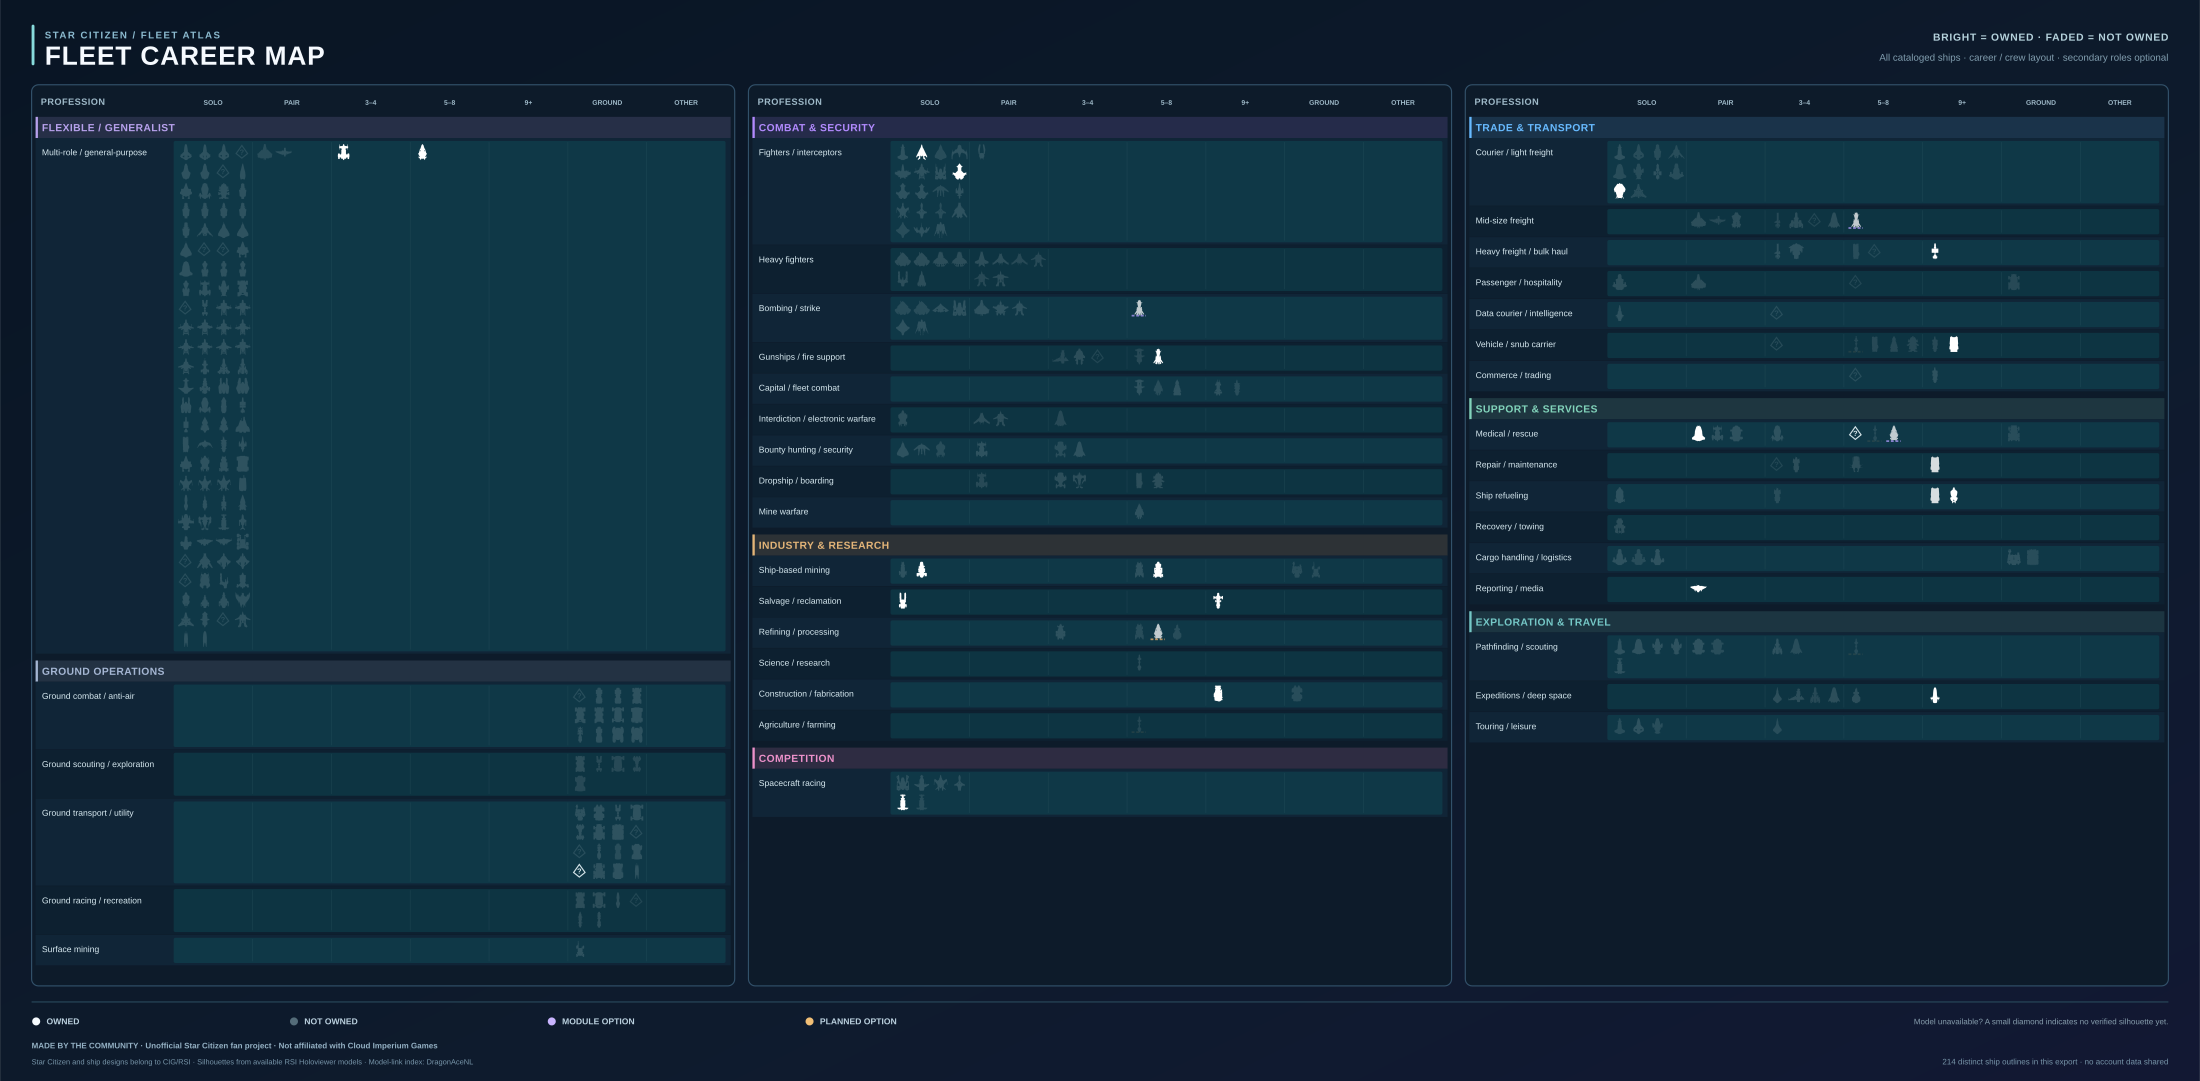
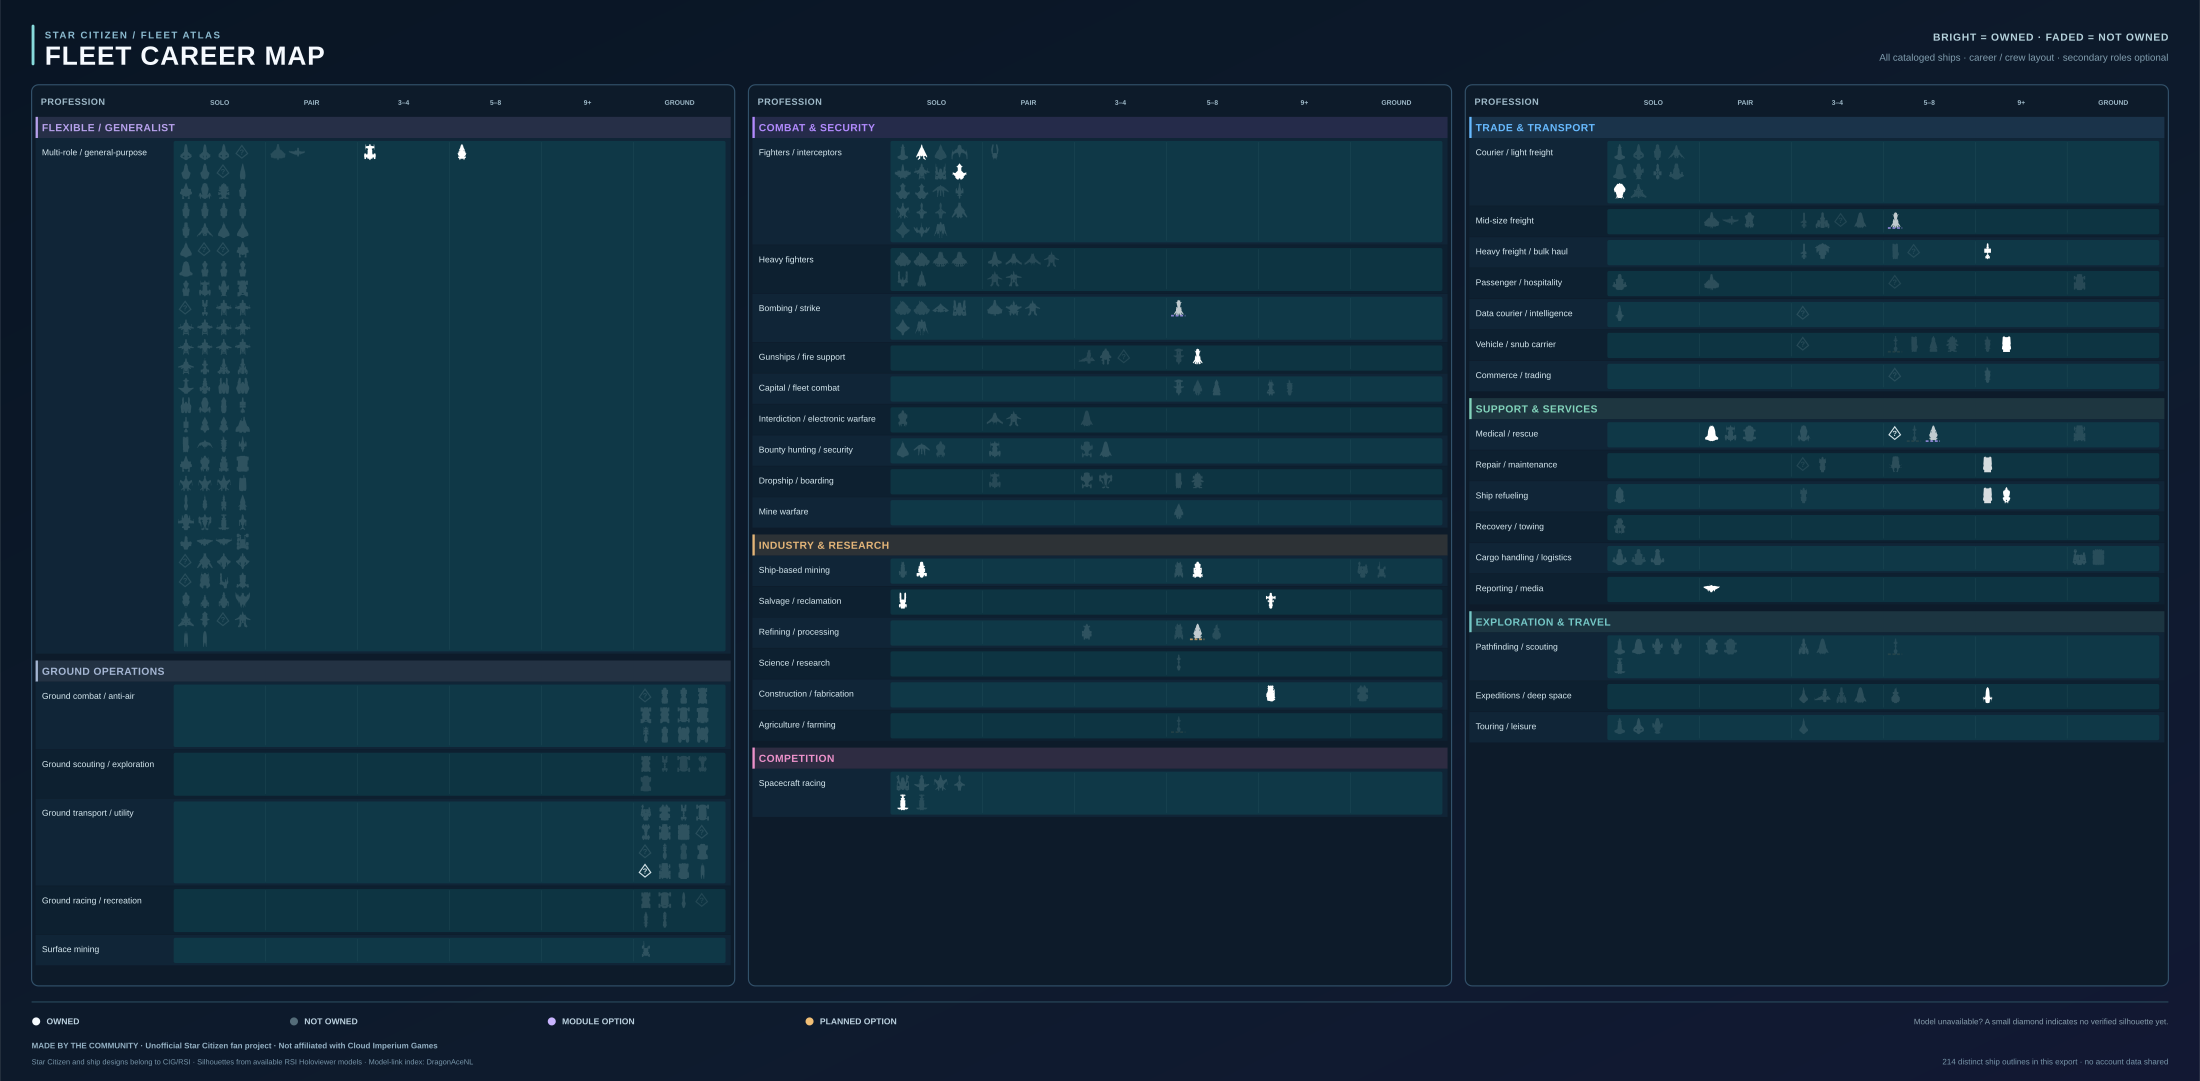
Hide empty Other crew tier in shared fleet map
Distribute the available width among six meaningful tiers unless an unclassified ship requires an Other column. Add a Needs classification lane when necessary and update synthetic preview and regression checks.

diff --git a/index.html b/index.html
@@ -371,9 +371,7 @@ const svgEsc=s=>String(s??'').replace(/[\u0000-\u001f\u007f]/g,' ').replace(/[&<
 function fleetMapSvg(fleet,showSecondary,publicShips=referenceModels){
  if(!fleet.length)throw Error('Import a fleet before exporting its graphic.');
  const W=3840,M=55,GAP=24,PW=(W-2*M-2*GAP)/3;
- const ROLE_W=232,INNER=16,TIER_IDS=['solo','duo','small','multi','fleet','ground','unknown'];
- const TIER_HEADS=['SOLO','PAIR','3–4','5–8','9+','GROUND','OTHER'];
- const CELL_W=(PW-ROLE_W-INNER*2)/TIER_IDS.length;
+ const ROLE_W=232,INNER=16;
  // Sprite artwork stays smaller than its layout pitch. The transparent edge
  // around each icon leaves a visible gutter between adjacent ship hulls.
  const ICON=31,STEP_X=33,STEP_Y=34,HEAD=148,PANEL_HEAD=56,GROUP_HEAD=37,ROW_MIN=54;
@@ -395,6 +393,14 @@ function fleetMapSvg(fleet,showSecondary,publicShips=referenceModels){
   publicByKey.set(k,{...(original||{}),...s,name:original?.name||s.officialName||s.name,owned:true,count:1});
  }
  const all=[...publicByKey.values()].sort((a,b)=>a.name.localeCompare(b.name));
+ // An empty catch-all column adds no information. Show it only when an
+ // imported ship or public reference has no recognized operating scale.
+ const BASE_TIERS=['solo','duo','small','multi','fleet','ground'];
+ const needsOther=all.some(s=>!BASE_TIERS.includes(s.tier));
+ const TIER_IDS=needsOther?[...BASE_TIERS,'unknown']:BASE_TIERS;
+ const TIER_HEADS=needsOther?['SOLO','PAIR','3–4','5–8','9+','GROUND','OTHER']:['SOLO','PAIR','3–4','5–8','9+','GROUND'];
+ const CELL_W=(PW-ROLE_W-INNER*2)/TIER_IDS.length;
+ if(all.some(s=>s.role==='review'))groups[2].push('REVIEW');
  const roleEntries=(s,r)=>{
   if(s.role===r)return 'primary';
   if(!showSecondary)return '';
@@ -403,7 +409,7 @@ function fleetMapSvg(fleet,showSecondary,publicShips=referenceModels){
   return module?(module.status==='planned'?'planned':'module'):'';
  };
  const panelData=groups.map(group=>group.map(id=>{
-  const lane=lanes.find(l=>l.id===id);
+  const lane=lanes.find(l=>l.id===id)||{id:'REVIEW',label:'Needs classification',roles:[{id:'review',label:'Unclassified ships'}]};
   return {id,label:lane.label,roles:lane.roles.map(role=>{
    const cells=TIER_IDS.map(t=>all.flatMap(s=>{
     const kind=roleEntries(s,role.id);

diff --git a/src/share-map.js b/src/share-map.js
@@ -4,9 +4,7 @@
 function fleetMapSvg(fleet,showSecondary,publicShips=referenceModels){
  if(!fleet.length)throw Error('Import a fleet before exporting its graphic.');
  const W=3840,M=55,GAP=24,PW=(W-2*M-2*GAP)/3;
- const ROLE_W=232,INNER=16,TIER_IDS=['solo','duo','small','multi','fleet','ground','unknown'];
- const TIER_HEADS=['SOLO','PAIR','3–4','5–8','9+','GROUND','OTHER'];
- const CELL_W=(PW-ROLE_W-INNER*2)/TIER_IDS.length;
+ const ROLE_W=232,INNER=16;
  // Sprite artwork stays smaller than its layout pitch. The transparent edge
  // around each icon leaves a visible gutter between adjacent ship hulls.
  const ICON=31,STEP_X=33,STEP_Y=34,HEAD=148,PANEL_HEAD=56,GROUP_HEAD=37,ROW_MIN=54;
@@ -28,6 +26,14 @@ function fleetMapSvg(fleet,showSecondary,publicShips=referenceModels){
   publicByKey.set(k,{...(original||{}),...s,name:original?.name||s.officialName||s.name,owned:true,count:1});
  }
  const all=[...publicByKey.values()].sort((a,b)=>a.name.localeCompare(b.name));
+ // An empty catch-all column adds no information. Show it only when an
+ // imported ship or public reference has no recognized operating scale.
+ const BASE_TIERS=['solo','duo','small','multi','fleet','ground'];
+ const needsOther=all.some(s=>!BASE_TIERS.includes(s.tier));
+ const TIER_IDS=needsOther?[...BASE_TIERS,'unknown']:BASE_TIERS;
+ const TIER_HEADS=needsOther?['SOLO','PAIR','3–4','5–8','9+','GROUND','OTHER']:['SOLO','PAIR','3–4','5–8','9+','GROUND'];
+ const CELL_W=(PW-ROLE_W-INNER*2)/TIER_IDS.length;
+ if(all.some(s=>s.role==='review'))groups[2].push('REVIEW');
  const roleEntries=(s,r)=>{
   if(s.role===r)return 'primary';
   if(!showSecondary)return '';
@@ -36,7 +42,7 @@ function fleetMapSvg(fleet,showSecondary,publicShips=referenceModels){
   return module?(module.status==='planned'?'planned':'module'):'';
  };
  const panelData=groups.map(group=>group.map(id=>{
-  const lane=lanes.find(l=>l.id===id);
+  const lane=lanes.find(l=>l.id===id)||{id:'REVIEW',label:'Needs classification',roles:[{id:'review',label:'Unclassified ships'}]};
   return {id,label:lane.label,roles:lane.roles.map(role=>{
    const cells=TIER_IDS.map(t=>all.flatMap(s=>{
     const kind=roleEntries(s,role.id);
